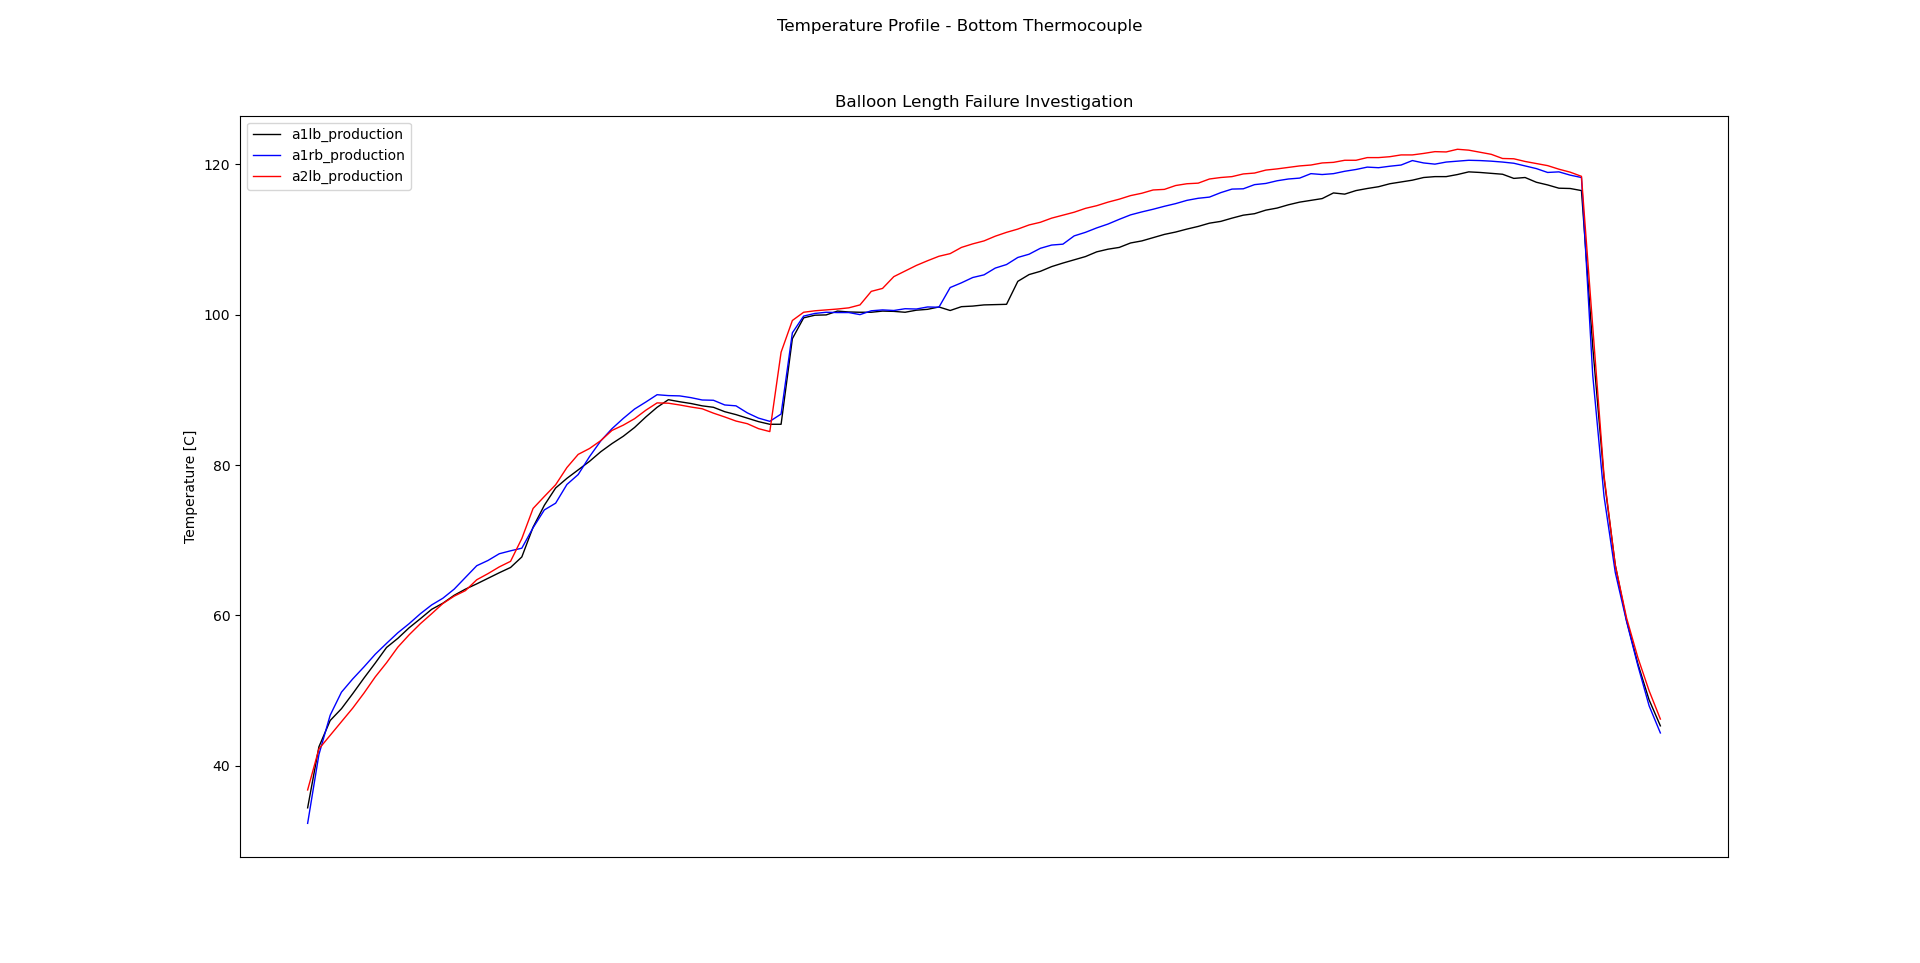
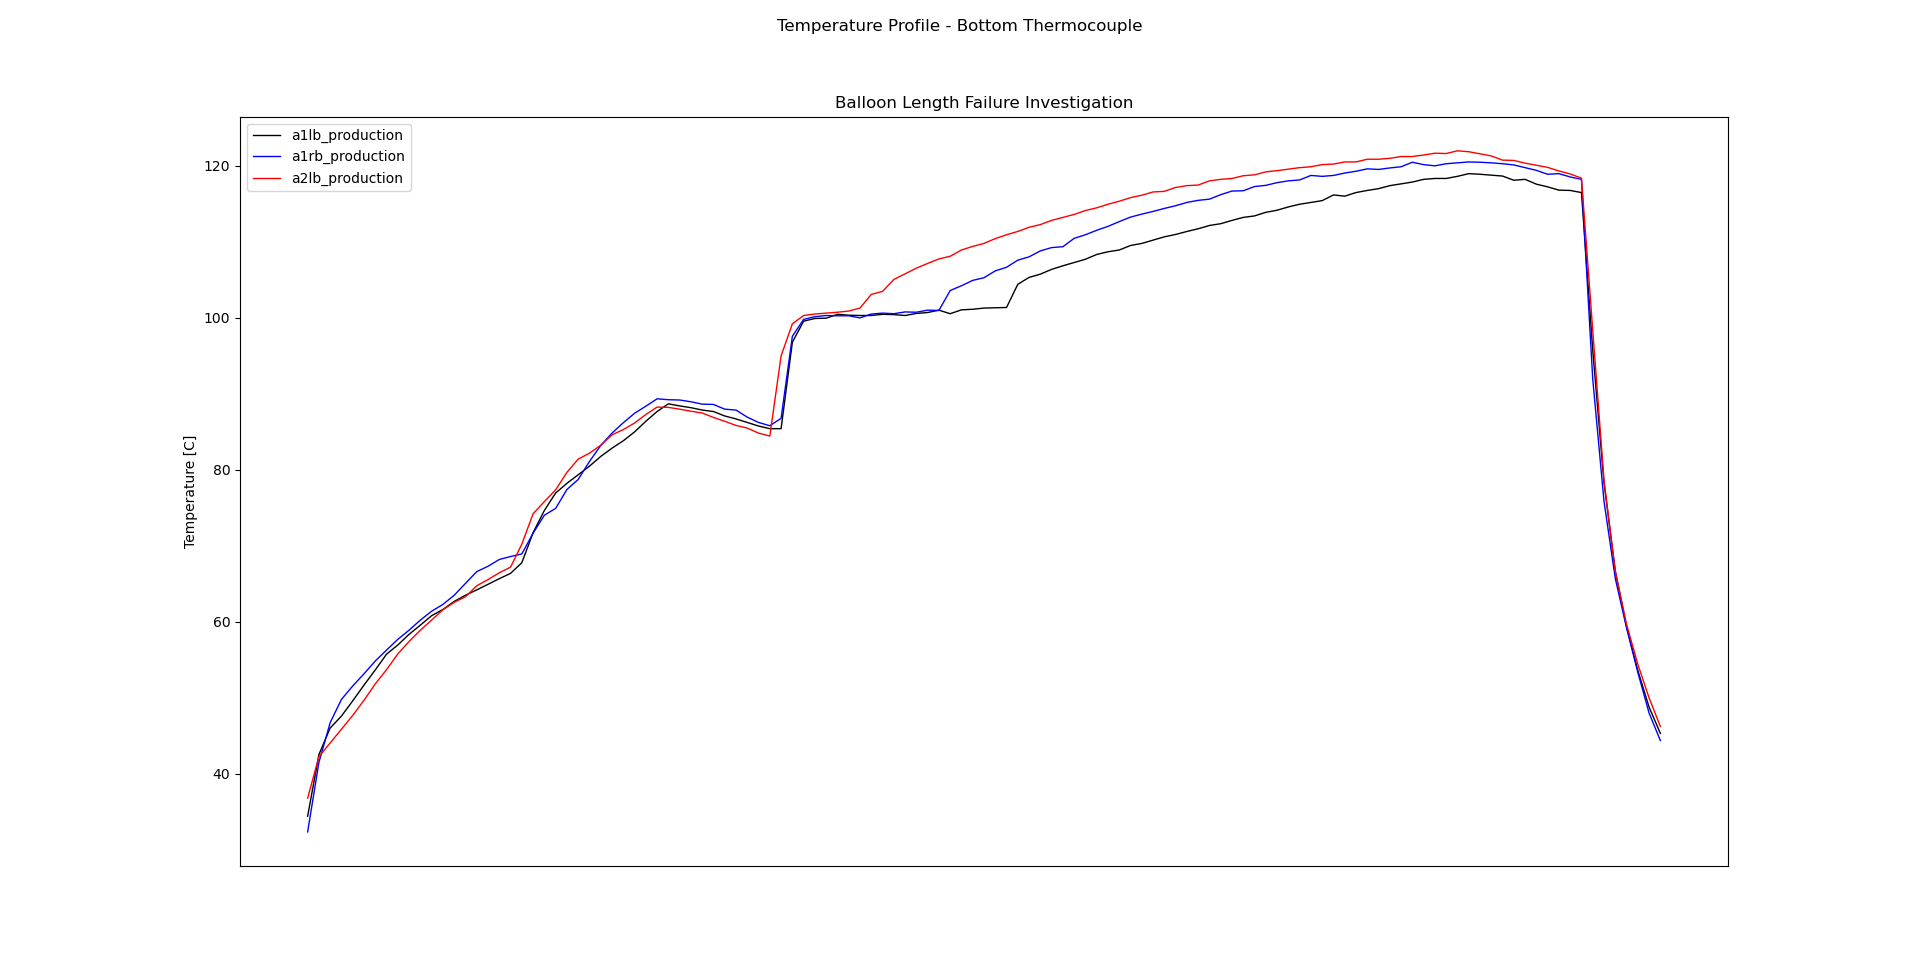
Adding side by side code

diff --git a/Multiple_plots.py b/Multiple_plots.py
@@ -1,0 +1,108 @@
+import pandas as pd # read CSV file
+import matplotlib.pyplot as plt
+
+df = pd.read_excel("Data Master File from M.O.L.E.xlsx")
+
+#production settings
+a1lt = df["A1LT"]
+a1lb = df["A1LB"]
+a2lt = df["A2LT"]
+a2lb = df["A2LB"]
+a3lt = df["A3LT"]
+a3lb = df["A3LB"]
+a1rt = df["A1RT"]
+a1rb = df["A1RB"]
+a2rt = df["A2RT"]
+a2rb = df["A2RB"]
+a3rt = df["A3RT"]
+a3rb = df["A3RB"]
+
+#arm position and loose tray
+a1lt2 = df["A1LT2"]
+a1lb2 = df["A1LB2"]
+a2lt2 = df["A2LT2"]
+a2lb2 = df["A2LB2"]
+a3lt2 = df["A3LT2"]
+a3lb2 = df["A3LB2"]
+a1rt2 = df["A1RT2"]
+a1rb2 = df["A1RB2"]
+a2rt2 = df["A2RT2"]
+a2rb2 = df["A2RB2"]
+a3rt2 = df["A3RT2"]
+a3rb2 = df["A3RB2"]
+
+#Thermocouple in the top of the moulds with production settings
+plt.subplot(1, 2, 1)
+plt.plot(a1lt, "violet", linewidth=1, label = "a1lt_production")
+plt.plot(a1rt, "turquoise", linewidth=1, label = "a1rt_production")
+plt.plot(a2lt, "peru", linewidth=1, label = "a2lt_production")
+plt.plot(a2rt, "thistle", linewidth=1, label = "a2rt_production")
+plt.plot(a3lt, "seagreen", linewidth=1, label = "a3lt_production")
+plt.plot(a3rt, "purple", linewidth=1, label = "a3rt_production")
+plt.title("Production Settings")
+plt.suptitle("Balloon Length Failure Investigation")
+plt.legend(loc = "upper left")
+plt.xticks([])
+plt.ylabel("Temperature [C]", color = "black")
+figure = plt.gcf()
+figure.set_size_inches(20, 10)
+
+#Thermocouple in the top of the moulds with modifications
+plt.subplot(1, 2, 2)
+plt.plot(a1lt2, "c--", linewidth=1, label = "a1lt2_loose tray_arm pos")
+plt.plot(a1rt2, "b--", linewidth=1, label = "a1rt2_loose tray_arm pos")
+plt.plot(a2lt2, "r--", linewidth=1, label = "a2lt2_loose tray")
+plt.plot(a2rt2, "g--", linewidth=1, label = "a2rt2_loose tray")
+plt.plot(a3lt2, "m--", linewidth=1, label = "a3lt2_loose tray")
+plt.plot(a3rt2, "y--", linewidth=1, label = "a3rt2_loose tray")
+plt.title("Modified Settings")
+plt.suptitle("Balloon Length Failure Investigation")
+plt.legend(loc = "upper left")
+plt.xticks([])
+plt.ylabel("Temperature [C]", color = "black")
+figure = plt.gcf()
+figure.set_size_inches(20, 10)
+plt.savefig("101", dpi=100)
+manager = plt.get_current_fig_manager()
+manager.window.showMaximized()
+plt.show(block=False)
+plt.pause(5)
+plt.close("all")
+
+#Thermocouple in the bottom of the moulds with production settings
+plt.subplot(1, 2, 1)
+plt.plot(a1lb, "violet", linewidth=1, label = "a1lb_production")
+plt.plot(a1rb, "turquoise", linewidth=1, label = "a1rb_production")
+plt.plot(a2lb, "peru", linewidth=1, label = "a2lb_production")
+plt.plot(a2rb, "thistle", linewidth=1, label = "a2rb_production")
+plt.plot(a3lb, "seagreen", linewidth=1, label = "a3lb_production")
+plt.plot(a3rb, "purple", linewidth=1, label = "a3rb_production")
+plt.title("Production Settings")
+plt.suptitle("Balloon Length Failure Investigation")
+plt.legend(loc = "upper left")
+plt.xticks([])
+plt.ylabel("Temperature [C]", color = "black")
+figure = plt.gcf()
+figure.set_size_inches(20, 10)
+
+#Thermocouple in the bottom of the moulds with modifications
+plt.subplot(1, 2, 2)
+plt.plot(a1lb2, "c--", linewidth=1, label = "a1lb2_loose tray_arm pos")
+plt.plot(a1rb2, "b--", linewidth=1, label = "a1rb2_loose tray_arm pos")
+plt.plot(a2lb2, "r--", linewidth=1, label = "a2lb2_loose tray")
+plt.plot(a2rb2, "g--", linewidth=1, label = "a2rb2_loose tray")
+plt.plot(a3lb2, "m--", linewidth=1, label = "a3lb2_loose tray")
+plt.plot(a3rb2, "y--", linewidth=1, label = "a3rb2_loose tray")
+plt.title("Modified Settings")
+plt.suptitle("Balloon Length Failure Investigation")
+plt.legend(loc = "upper left")
+plt.xticks([])
+plt.ylabel("Temperature [C]", color = "black")
+figure = plt.gcf()
+figure.set_size_inches(20, 10)
+plt.savefig("102", dpi=100)
+manager = plt.get_current_fig_manager()
+manager.window.showMaximized()
+plt.show(block=False)
+plt.pause(5)
+plt.close("all")

diff --git a/balloon_analysis.py b/balloon_analysis.py
@@ -481,3 +481,80 @@ plt.savefig("34")
 plt.show(block=False)
 plt.pause(5)
 plt.close("all")
+
+#Side by Side plots
+#Thermocouple in the top of the moulds with production settings
+plt.subplot(1, 2, 1)
+plt.plot(a1lt, "violet", linewidth=1, label = "a1lt_production")
+plt.plot(a1rt, "turquoise", linewidth=1, label = "a1rt_production")
+plt.plot(a2lt, "peru", linewidth=1, label = "a2lt_production")
+plt.plot(a2rt, "thistle", linewidth=1, label = "a2rt_production")
+plt.plot(a3lt, "seagreen", linewidth=1, label = "a3lt_production")
+plt.plot(a3rt, "purple", linewidth=1, label = "a3rt_production")
+plt.title("Production Settings")
+plt.suptitle("Balloon Length Failure Investigation")
+plt.legend(loc = "upper left")
+plt.xticks([])
+plt.ylabel("Temperature [C]", color = "black")
+figure = plt.gcf()
+figure.set_size_inches(20, 10)
+
+#Thermocouple in the top of the moulds with modifications
+plt.subplot(1, 2, 2)
+plt.plot(a1lt2, "c--", linewidth=1, label = "a1lt2_loose tray_arm pos")
+plt.plot(a1rt2, "b--", linewidth=1, label = "a1rt2_loose tray_arm pos")
+plt.plot(a2lt2, "r--", linewidth=1, label = "a2lt2_loose tray")
+plt.plot(a2rt2, "g--", linewidth=1, label = "a2rt2_loose tray")
+plt.plot(a3lt2, "m--", linewidth=1, label = "a3lt2_loose tray")
+plt.plot(a3rt2, "y--", linewidth=1, label = "a3rt2_loose tray")
+plt.title("Modified Settings")
+plt.suptitle("Balloon Length Failure Investigation")
+plt.legend(loc = "upper left")
+plt.xticks([])
+plt.ylabel("Temperature [C]", color = "black")
+figure = plt.gcf()
+figure.set_size_inches(20, 10)
+plt.savefig("101", dpi=100)
+manager = plt.get_current_fig_manager()
+manager.window.showMaximized()
+plt.show(block=False)
+plt.pause(5)
+plt.close("all")
+
+#Thermocouple in the bottom of the moulds with production settings
+plt.subplot(1, 2, 1)
+plt.plot(a1lb, "violet", linewidth=1, label = "a1lb_production")
+plt.plot(a1rb, "turquoise", linewidth=1, label = "a1rb_production")
+plt.plot(a2lb, "peru", linewidth=1, label = "a2lb_production")
+plt.plot(a2rb, "thistle", linewidth=1, label = "a2rb_production")
+plt.plot(a3lb, "seagreen", linewidth=1, label = "a3lb_production")
+plt.plot(a3rb, "purple", linewidth=1, label = "a3rb_production")
+plt.title("Production Settings")
+plt.suptitle("Balloon Length Failure Investigation")
+plt.legend(loc = "upper left")
+plt.xticks([])
+plt.ylabel("Temperature [C]", color = "black")
+figure = plt.gcf()
+figure.set_size_inches(20, 10)
+
+#Thermocouple in the bottom of the moulds with modifications
+plt.subplot(1, 2, 2)
+plt.plot(a1lb2, "c--", linewidth=1, label = "a1lb2_loose tray_arm pos")
+plt.plot(a1rb2, "b--", linewidth=1, label = "a1rb2_loose tray_arm pos")
+plt.plot(a2lb2, "r--", linewidth=1, label = "a2lb2_loose tray")
+plt.plot(a2rb2, "g--", linewidth=1, label = "a2rb2_loose tray")
+plt.plot(a3lb2, "m--", linewidth=1, label = "a3lb2_loose tray")
+plt.plot(a3rb2, "y--", linewidth=1, label = "a3rb2_loose tray")
+plt.title("Modified Settings")
+plt.suptitle("Balloon Length Failure Investigation")
+plt.legend(loc = "upper left")
+plt.xticks([])
+plt.ylabel("Temperature [C]", color = "black")
+figure = plt.gcf()
+figure.set_size_inches(20, 10)
+plt.savefig("102", dpi=100)
+manager = plt.get_current_fig_manager()
+manager.window.showMaximized()
+plt.show(block=False)
+plt.pause(5)
+plt.close("all")
